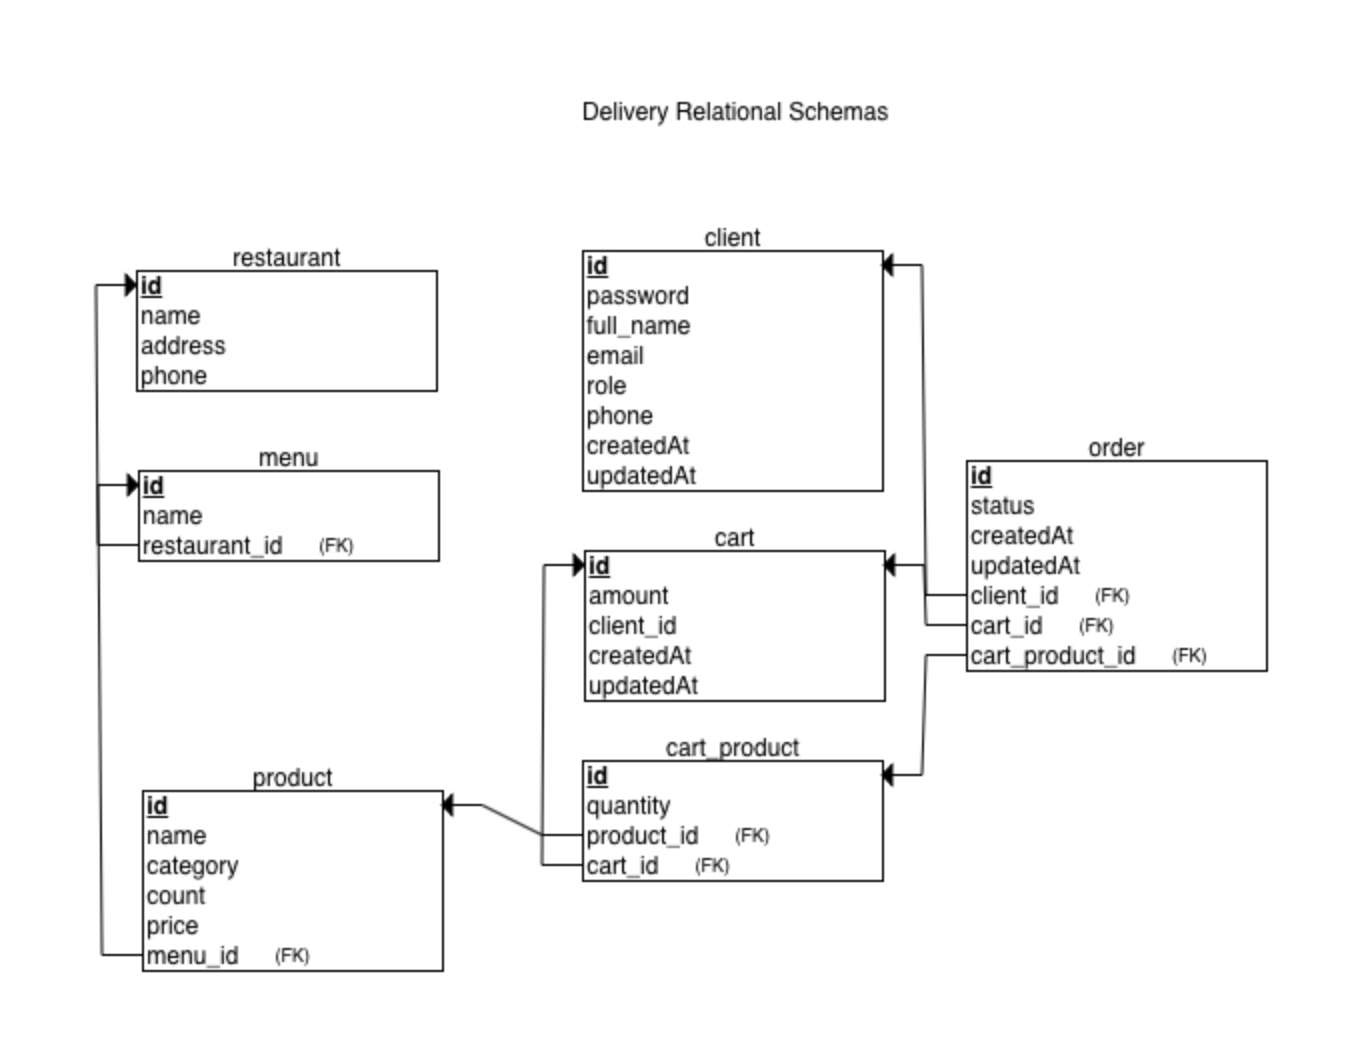
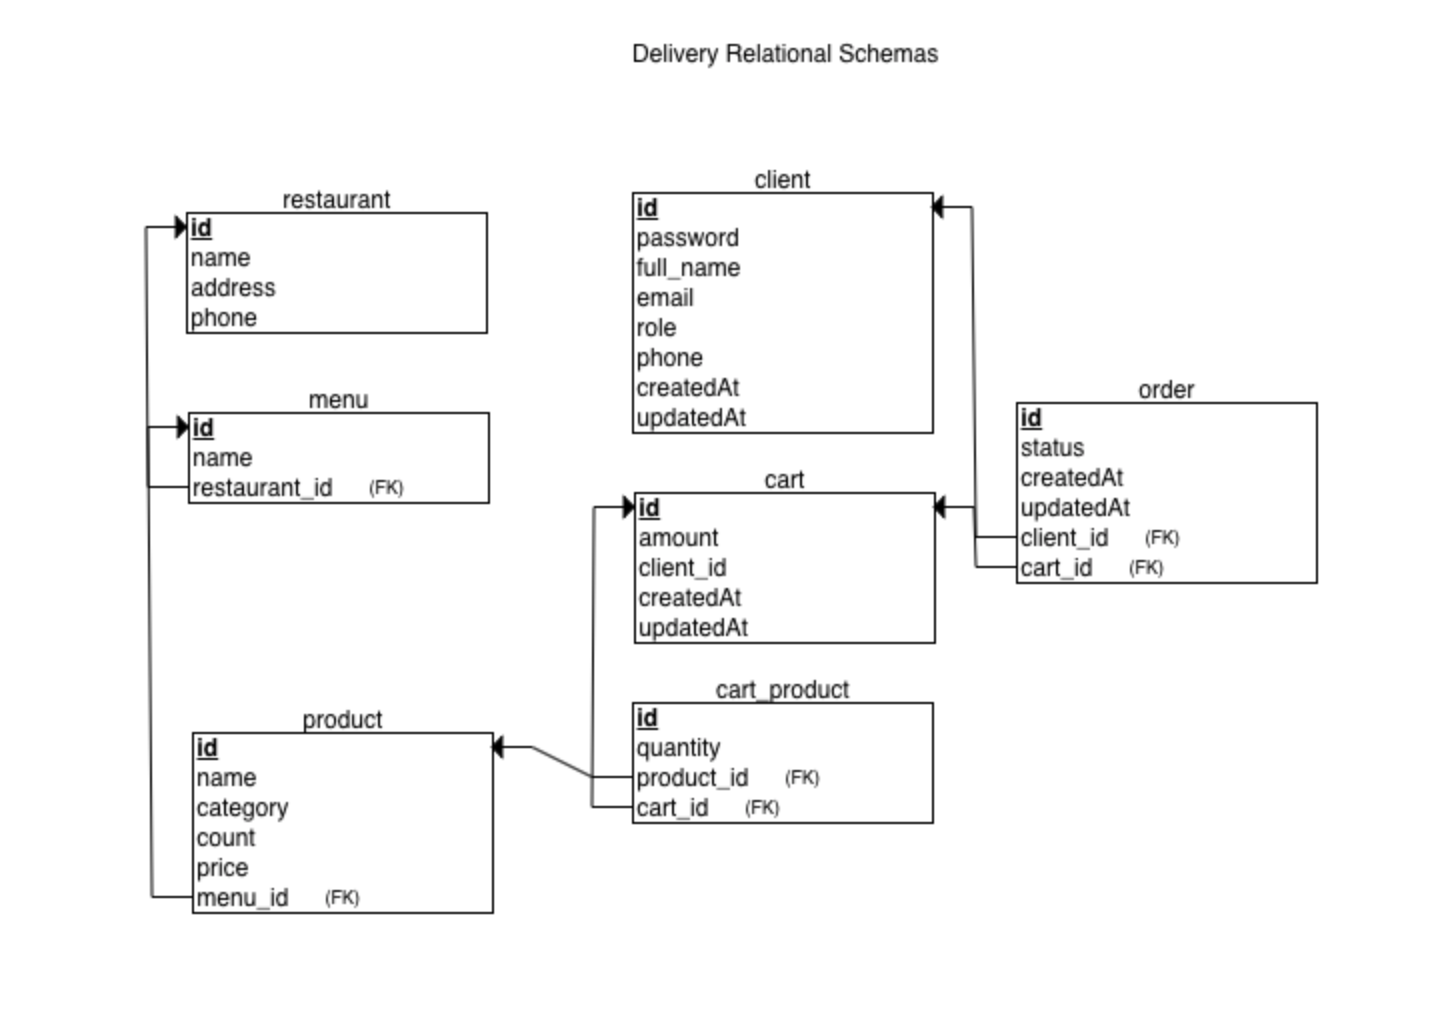
add new endpoints

diff --git a/src/v1/controllers/RestaurantController.ts b/src/v1/controllers/RestaurantController.ts
@@ -1,9 +1,10 @@
 import { Request, Response } from 'express';
-import { getRepository } from 'typeorm';
+import { getRepository, getManager } from 'typeorm';
 import { validate } from 'class-validator';
 
 import { Restaurant } from '../../entity/restaurant';
 import { Menu } from '../../entity/menu';
+import { Product } from '../../entity/product';
 
 class RestaurantController {
 	// listAll
@@ -58,21 +59,24 @@ class RestaurantController {
 		const restaurant_id: string = req.params.id;
 		const menu_id: string = req.params.menu_id;
 
-		// const menu = await getRepository(Menu)
-		// 	.createQueryBuilder('product')
-		// 	.leftJoinAndSelect('product.menu_id', 'menu')
-		// 	.select(['menu.id', 'menu.name'])
-		// 	.where('menu.restaurant_id = :id AND menu.id = :m_id', {
-		// 		id: restaurant_id,
-		// 		m_id: menu_id
-		// 	})
-		// 	.getOne();
+		const menu = await getManager()
+			.createQueryBuilder(Menu, 'menu')
+			.select([
+				'menu.id',
+				'menu.name',
+				'product.id',
+				'product.name',
+				'product.category',
+				'product.count',
+				'product.price'
+			])
+			.leftJoin(Product, 'product', 'menu.id = product.menu_id')
+			.where('menu.restaurant_id = :id AND menu.id = :m_id', {
+				id: restaurant_id,
+				m_id: menu_id
+			})
+			.getRawMany();
 
-		const menu = await getRepository(Menu).query(`
-			SELECT menu.id, menu.name, product.id, product.name, product.category, product.count, product.price FROM menu
-			LEFT JOIN product ON menu.id = product.menu_id
-			WHERE menu.restaurant_id = ${restaurant_id} AND menu.id = ${menu_id};
-		`);
 		res.send(menu);
 		return;
 	};

diff --git a/src/v1/controllers/OrderController.ts b/src/v1/controllers/OrderController.ts
@@ -49,18 +49,17 @@ class OrderController {
 	// Add order
 	static AddOrder = async (req: Request, res: Response) => {
 		// Get parameters from the body
-		let { status, client_id, cart_id } = req.body;
-		if (!(status && client_id && cart_id)) {
+		let { cart_id } = req.body;
+		if (!cart_id) {
 			res.status(400).json({
-				message: 'status, client_id and cart_id is required.',
+				message: 'cart_id is required.',
 				status: 'false'
 			});
 		}
 		let order = new Order();
 
-		order.status = status;
-		order.client_id = client_id;
 		order.cart_id = cart_id;
+		order.status = 'Created';
 
 		// Validade if the parameters are ok
 		const errors = await validate(order);
@@ -86,6 +85,26 @@ class OrderController {
 			message: 'Order added successful.',
 			status: 'true'
 		});
+	};
+
+	// Count of client's orders in each restaurant
+	static OrderHistoryRestaurants = async (req: Request, res: Response) => {
+		const datefrom: string = req.body.DateFrom;
+		const dateto: string = req.body.DateTo;
+		const format = new RegExp(
+			'[0-9]{4}[-]{1}[0-9]{2}[-]{1}[0-9]{2}[T]{1}[0-9]{2}[:]{1}[0-9]{2}[:]{1}[0-9]{2}[Z]{1}'
+		);
+
+		if (!(format.test(datefrom) && format.test(dateto))) {
+			res.status(400).json({
+				message:
+					'Date format is incorrect, please enter Date in this format: 2020-01-01T00:00:00Z',
+				status: 'false'
+			});
+			return;
+		}
+
+		// TO DO response list of restaurants with client's orders
 	};
 }
 

diff --git a/src/v1/routes/order.ts b/src/v1/routes/order.ts
@@ -26,4 +26,11 @@ order_router.post(
 	OrderController.AddOrder
 );
 
+// Count of client's orders in each restaurant
+order_router.get(
+	'/history/restaurants',
+	[checkJwt, checkRole(['ADMIN'])],
+	OrderController.OrderHistoryRestaurants
+);
+
 export default order_router;

diff --git a/src/v1/controllers/CartController.ts b/src/v1/controllers/CartController.ts
@@ -73,8 +73,7 @@ class CartController {
 
 		// If all ok, send 201 response
 		res.status(201).json({
-			message: 'Cart added successful.',
-			status: 'true'
+			message: 'Cart added successful.'
 		});
 	};
 }
